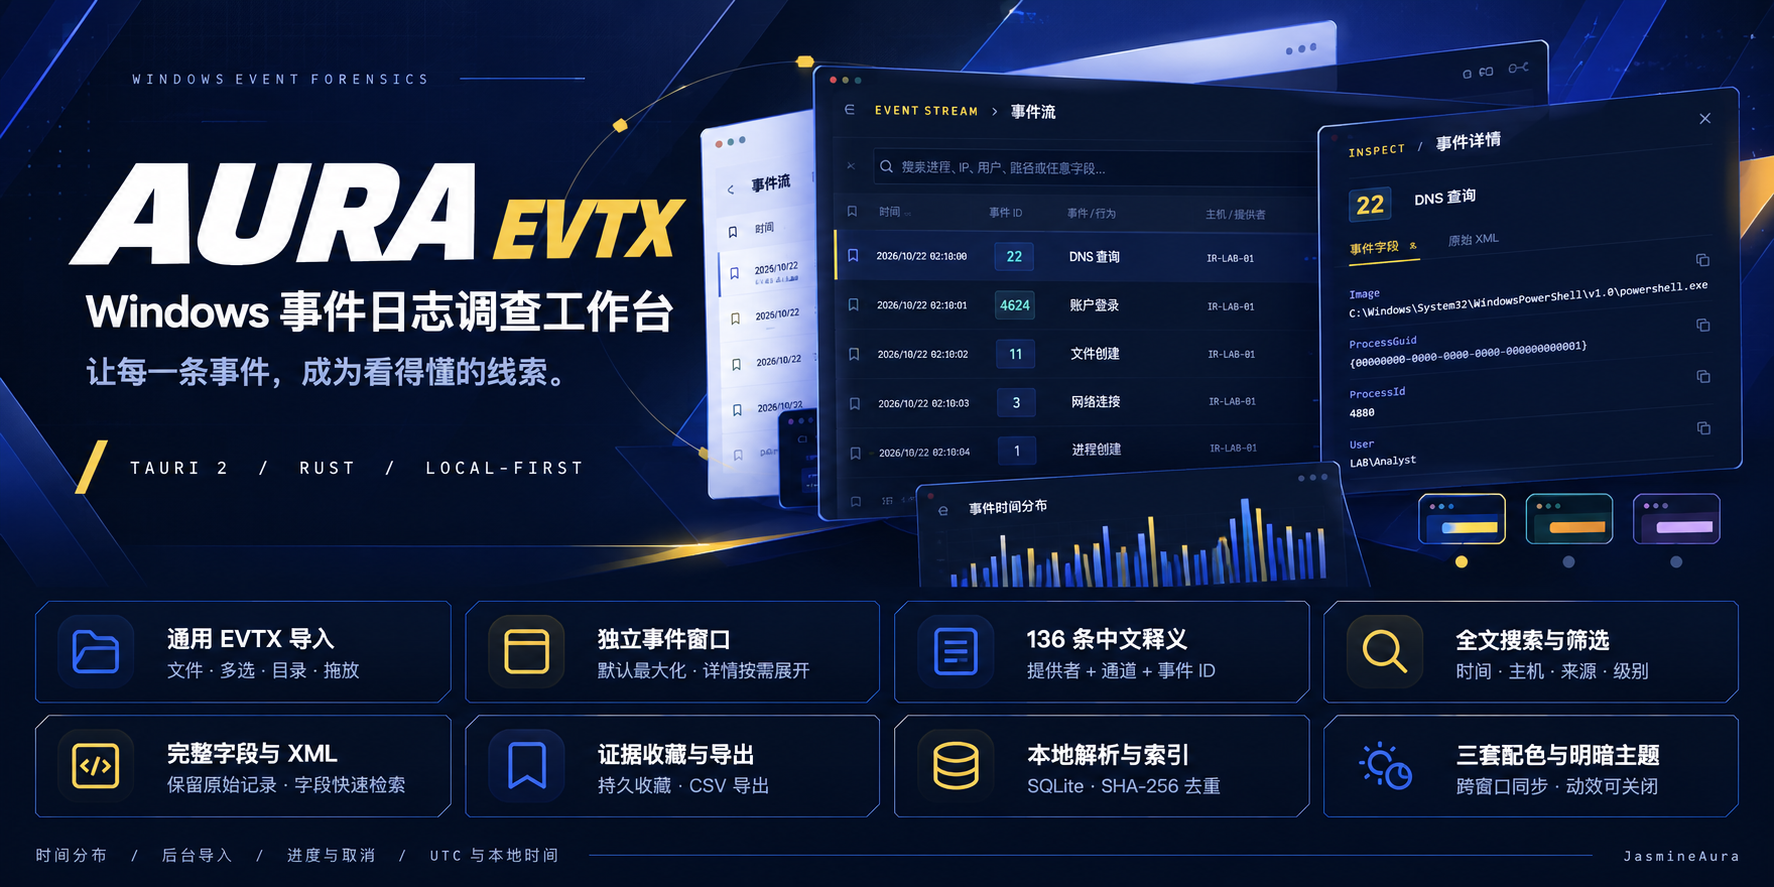
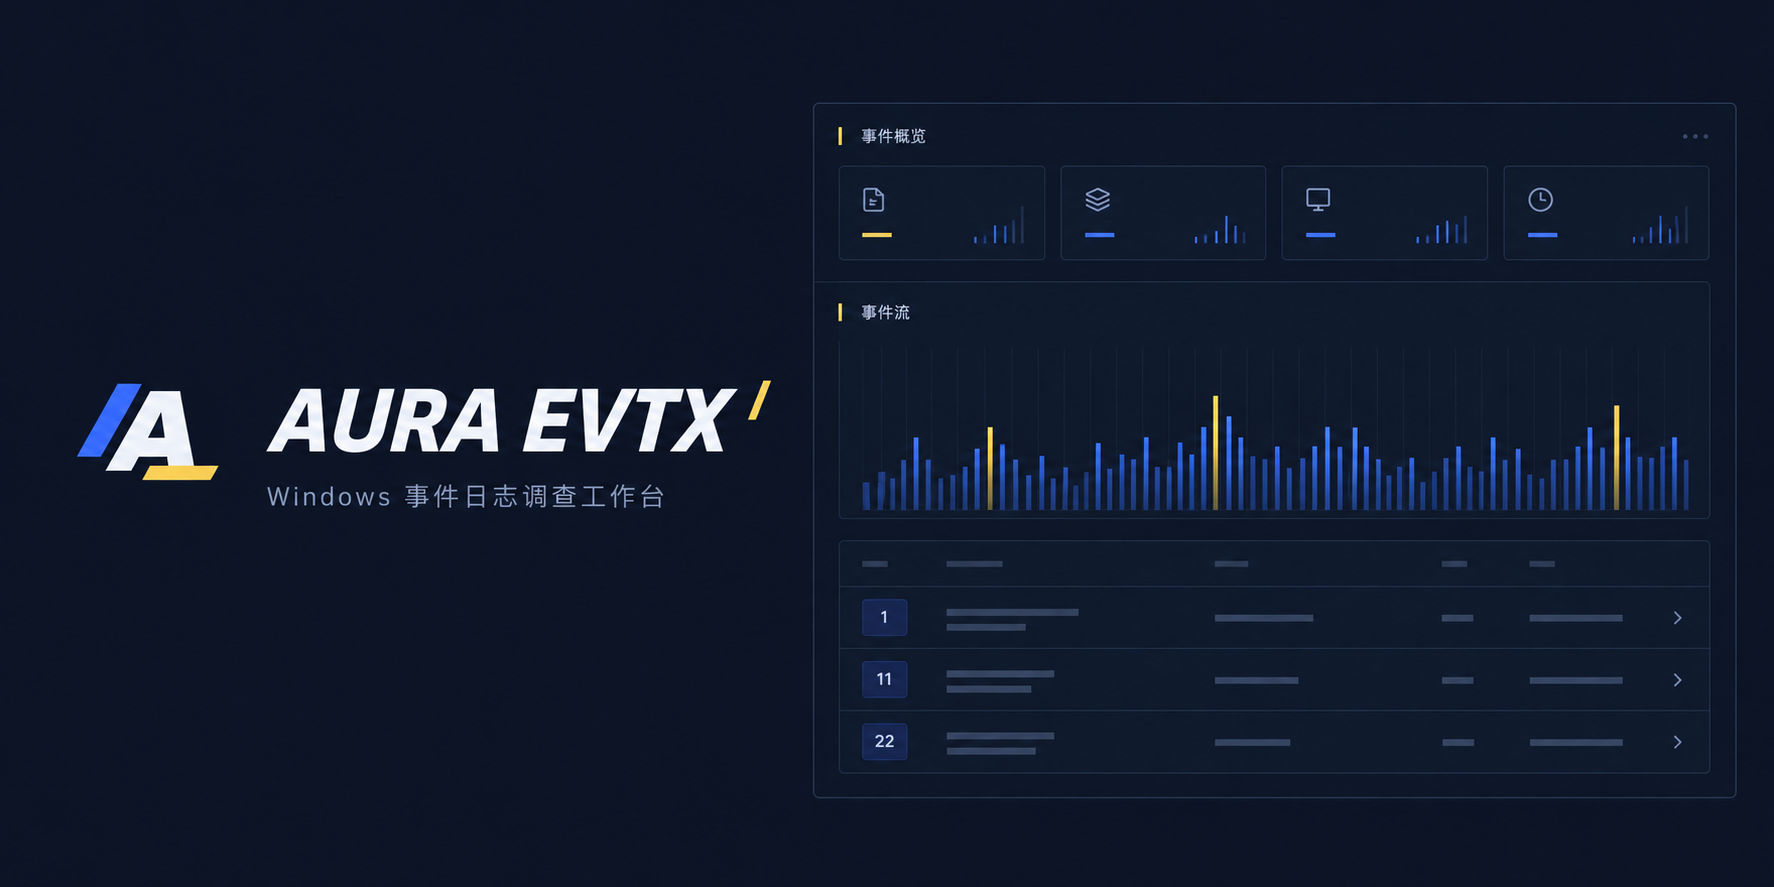
docs: simplify cover to match the desktop interface

diff --git a/docs/design/cover-prompt.md b/docs/design/cover-prompt.md
@@ -1,28 +1,17 @@
-# AuraEVTX README cover
+# AuraEVTX minimal README cover
 
-Generated with the built-in `image_gen` tool. This is original promotional artwork; the existing application screenshots were used only as visual references.
+Generated with the built-in `image_gen` tool. The application overview screenshot is a visual reference; the final cover is a restrained, UI-inspired composition.
 
 Final asset: `docs/assets/cover.png`.
 
 ## Final generation prompt
 
 ```text
-Use case: ads-marketing.
-Create ONE original, finished, premium landscape GitHub README cover / software feature overview for AuraEVTX, a Windows EVTX forensic investigation desktop application. Wide 2:1 aspect ratio, ideally 2400x1200 or similar high-resolution landscape. This is a deliberately designed promotional artwork, NOT a screenshot pasted as a cover. The two input images are REFERENCE IMAGES ONLY: learn the real app's navy/royal-blue/signal-yellow palette, italic branding, slanted geometric details, event table, XML inspector and chart style. Do not copy the entire screenshot, do not show browser preview badges or synthetic record counts.
+Use case: ads-marketing. Create a NEW minimalist landscape README cover for AuraEVTX. Aspect ratio 2:1. The provided screenshot is a STYLE REFERENCE ONLY: match the calm dark navy flat desktop application, understated blue panels, very sparse yellow accents, italic white heading, thin panel borders and precise layout. The user rejected the previous cover for being far too flashy and verbose. This version must feel like the quiet main interface of the actual software.
 
-Design direction: restrained, serious, prestigious cybersecurity software editorial design with kinetic angular geometry, bold italic typographic energy inspired by stylish Japanese game menu art, but original composition. Very dark navy #0D1425 background; electric cobalt #456DFF panels; signal gold #F4D15C accents; white headings. Matte high-end finish, thin orbital arcs and subtle data traces, crisp geometric outlines, precise spacing, ample margins. No anime character, no hooded hacker, no stock laptop photograph, no cheesy neon cyberpunk, no unrelated brand logos, no QR code.
+Design a restrained flat UI-inspired editorial composition, not a literal full screenshot and not a marketing feature infographic. Background solid deep navy #0D1425. Left approx 42%: a small angular A-like white-and-blue mark with one short yellow underline, large clean italic white typography 'AURA EVTX', and ONLY one small subdued line below it: 'Windows 事件日志调查工作台'. Plenty of generous empty space. A single tiny yellow slash next to the title may echo the screenshot. No other slogans or feature copy.
 
-Composition: top/upper-middle approx 60% is a striking visual hero. On the left, HUGE impeccably spelled 'AURA EVTX' white italic heavy title with a small gold diagonal slash. Below, readable Chinese subtitle 'Windows 事件日志调查工作台' and tagline '让每一条事件，成为看得懂的线索。'. Below title, compact truthful technology labels 'TAURI 2  /  RUST  /  LOCAL-FIRST'. On the right, an elegant layered editorial collage of three simplified native application windows: dominant dark event stream with real-looking rows and event ID chips (1, 3, 11, 22, 4624), an offset event detail/XML inspector card, and a small timeline chart card. Show a smaller light-theme sliver behind dark cards and three discreet theme swatches (blue/gold, teal/amber, violet/silver). Mild perspective is OK but prioritize flat crisp readability, not extreme 3D. Windows visibly separate, not a single dashboard. Do not imply attack detection or AI.
+Right approx 58%: ONE simplified straight-on software main-interface panel, aligned cleanly and calmly, with thin blue-grey border and no heavy perspective. Within this panel a compact top strip of four subtle statistic tiles, a simple blue vertical bar timeline with just a few gold highlights, and a small neat event-list area with a few rows and understated ID chips 1, 11, 22. Keep panel text sparse and tiny, suitable as quiet interface texture rather than reading material; optional small panel headings '事件概览' and '事件流' only. No large numbers promising performance. The composition itself conveys a thoughtful forensic desktop workspace without spelling out capabilities. Use royal blue #456DFF sparingly, gold #F4D15C as a few small strokes only, white for title, muted blue-grey for UI details. Flat, matte, almost no shadows. Sophisticated professional desktop-app visual, crisp border details, substantial negative space.
 
-Bottom approx 35%: an intentional precise 2-row x 4-column feature grid, eight distinct small professional feature groups, each with a clean outline icon, a short Chinese feature title and one very short supporting line. Real legible Chinese typography, high contrast, consistent typeface, no illegible pseudo-text. Exact feature copy:
-1. title '通用 EVTX 导入' / supporting '文件 · 多选 · 目录 · 拖放'
-2. title '独立事件窗口' / supporting '默认最大化 · 详情按需展开'
-3. title '136 条中文释义' / supporting '提供者 + 通道 + 事件 ID'
-4. title '全文搜索与筛选' / supporting '时间 · 主机 · 来源 · 级别'
-5. title '完整字段与 XML' / supporting '保留原始记录 · 字段快速检索'
-6. title '证据收藏与导出' / supporting '持久收藏 · CSV 导出'
-7. title '本地解析与索引' / supporting 'SQLite · SHA-256 去重'
-8. title '三套配色与明暗主题' / supporting '跨窗口同步 · 动效可关闭'
-
-Slim footer with small clear text: '时间分布  /  后台导入  /  进度与取消  /  UTC 与本地时间' and small author credit 'JasmineAura'. Include only the specified title, tagline, labels, features and credit; avoid fabricated numerical performance claims, attack graphs, AI, Sigma, 'all events translated', security certifications or other features the product does not have. Keep all important text comfortably away from edges. Make the artwork exceptionally composed and polished as a single immediately useful README banner showcasing the software's actual breadth. Chinese text must be accurately written.
+ABSOLUTELY NO feature cards, feature lists, infographic grid, eight selling points, descriptive footer, badges, author credit, QR code, shield lock icon, hacker, dramatic lighting, glow, gradients, neon, glowing particles, diagonal background streaks, overlapping windows, floating 3D cards, ornamental orbital rings, cyberpunk elements, exaggerated metallic logo or flashy effects. No old cover elements. The only prominent words are 'AURA EVTX' and 'Windows 事件日志调查工作台'. Keep it elegant, sober, simple, and very close in spirit to the supplied real software interface.
 ```

diff --git a/README.md b/README.md
@@ -1,6 +1,6 @@
 <div align="center">
 
-<img src="docs/assets/cover.png" alt="AuraEVTX 功能总览：通用 EVTX 导入、独立事件窗口、中文事件图鉴、全文搜索、原始 XML、证据收藏与导出、本地索引和多主题" width="100%" />
+<img src="docs/assets/cover.png" alt="AuraEVTX：深蓝简洁封面与主界面元素" width="100%" />
 
 # AuraEVTX
 
